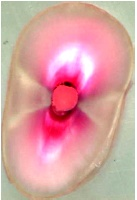
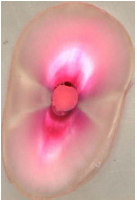
Processed image is added to resources folder once the enchance button is clicked.

diff --git a/Image Dental Analysis Tool/src/com/dental/Process/LoadImage.java b/Image Dental Analysis Tool/src/com/dental/Process/LoadImage.java
@@ -9,6 +9,7 @@ import org.opencv.highgui.Highgui;
 public class LoadImage {
 
 	private static Mat newImage;
+	private PreProcessing dest;
 	
 	public LoadImage(File SelectedFile){
 		
@@ -17,10 +18,9 @@ public class LoadImage {
 		System.loadLibrary( Core.NATIVE_LIBRARY_NAME );
 		newImage = Highgui.imread(address,Highgui.CV_LOAD_IMAGE_COLOR);
 		
-		PreProcessing dest = new PreProcessing(newImage);
+		dest = new PreProcessing(newImage);
 		
 		// Check project file to see the preprocessed image
-		Highgui.imwrite("preprocess.jpg",dest.preProcessing());
-		
+		Highgui.imwrite("resource/preprocess.jpg",dest.preProcessing());
 	}
 }

diff --git a/Image Dental Analysis Tool/src/com/dental/GUI/ControllerImage.java b/Image Dental Analysis Tool/src/com/dental/GUI/ControllerImage.java
@@ -200,7 +200,7 @@ public class ControllerImage extends Main implements Initializable {
 	
 	@FXML
 	private void onClickEnchance() {		
-		LoadImage im = new LoadImage(getSelectedfile());
+		new LoadImage(getSelectedfile());
 	}
 	
 	@FXML
